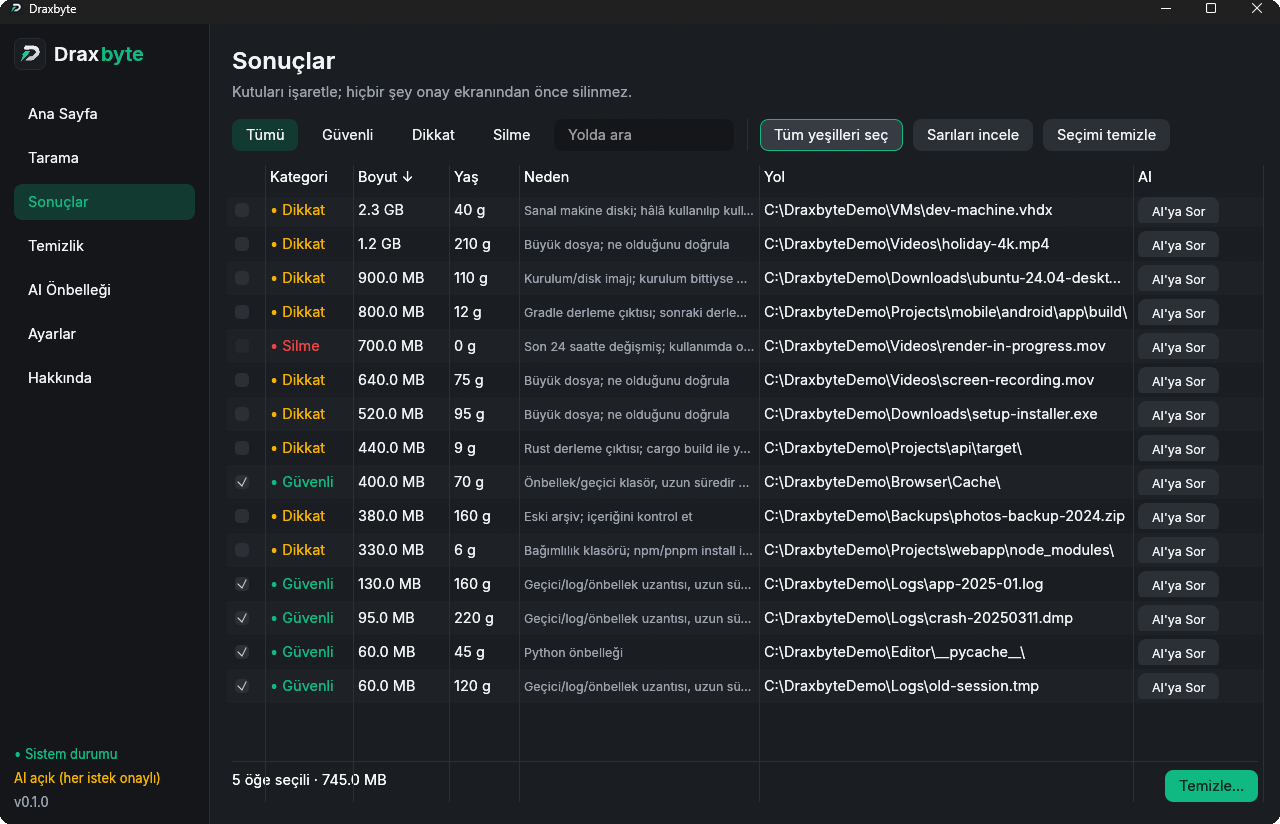
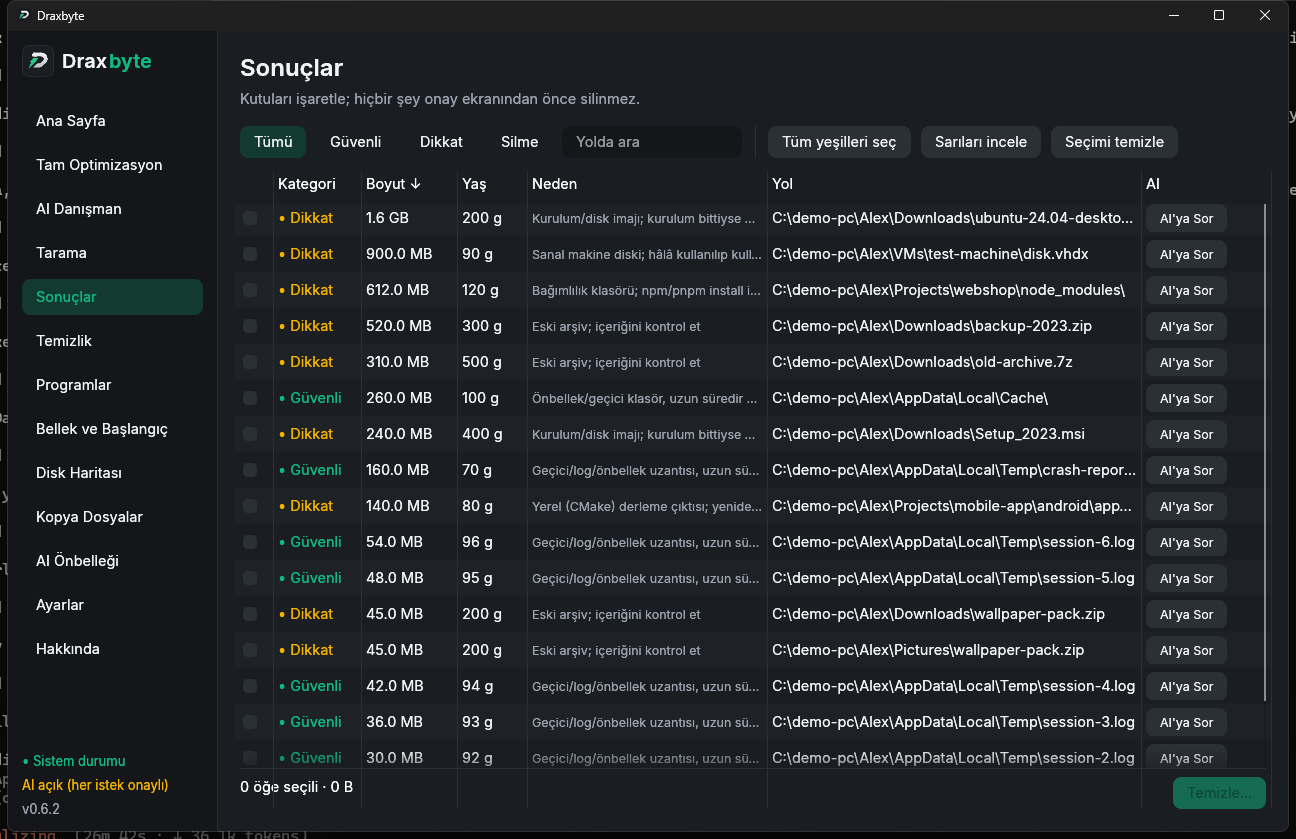
README: screenshots of the AI Advisor, Full Optimization, Disk Map and Duplicate Files (demo data, TR and EN); refreshed Home and Results

diff --git a/README.md b/README.md
@@ -82,6 +82,13 @@ Draxbyte, diskini tarar; **büyük ve gereksiz** dosyaları (eski log'lar, önbe
 | ![Temizlik](docs/screenshots/temizlik.png) | ![AI ayarları](docs/screenshots/ayarlar-ai.png) |
 | **Temizlik raporu** — her öğe için ne olduğu, geri alma | **AI ayarları** — çoklu sağlayıcı, modelleri otomatik getirme |
 
+| | |
+|---|---|
+| ![AI Danışman](docs/screenshots/ai-danisman.png) | ![Tam Optimizasyon](docs/screenshots/tam-optimizasyon.png) |
+| **AI Danışman** — taramayı konuş, sağlayıcıyı ve modeli ekrandan seç; yalnızca öneri verir | **Tam Optimizasyon** — salt okuma analiz, onaydan önce hiçbir şey değişmez |
+| ![Disk Haritası](docs/screenshots/disk-haritasi.png) | ![Kopya Dosyalar](docs/screenshots/kopya-dosyalar.png) |
+| **Disk Haritası** — alan neyin altında? kutuya tıkla, içine gir | **Kopya Dosyalar** — her grupta en az bir kopya kalır |
+
 > Görüntüler örnek (demo) klasörleriyle alındı; kişisel dosya içermez.
 
 <details>

diff --git a/README.en.md b/README.en.md
@@ -80,6 +80,13 @@ Deleted items go to the Recycle Bin by default and can be restored.
 | ![Cleanup](docs/screenshots/en/cleanup.png) | ![AI settings](docs/screenshots/en/settings-ai.png) |
 | **Cleanup report** — what happened to each item, undo | **AI settings** — many providers, models fetched automatically |
 
+| | |
+|---|---|
+| ![AI Advisor](docs/screenshots/en/advisor.png) | ![Full Optimization](docs/screenshots/en/optimize.png) |
+| **AI Advisor** — talk through the scan, pick the provider and model on the screen; it only advises | **Full Optimization** — read-only analysis, nothing changes before you approve |
+| ![Disk Map](docs/screenshots/en/diskmap.png) | ![Duplicate Files](docs/screenshots/en/duplicates.png) |
+| **Disk Map** — what is taking the space? click a tile to look inside | **Duplicate Files** — at least one copy of every group stays |
+
 > Screenshots were taken with a throw-away demo folder; they contain no personal files.
 
 <details>
